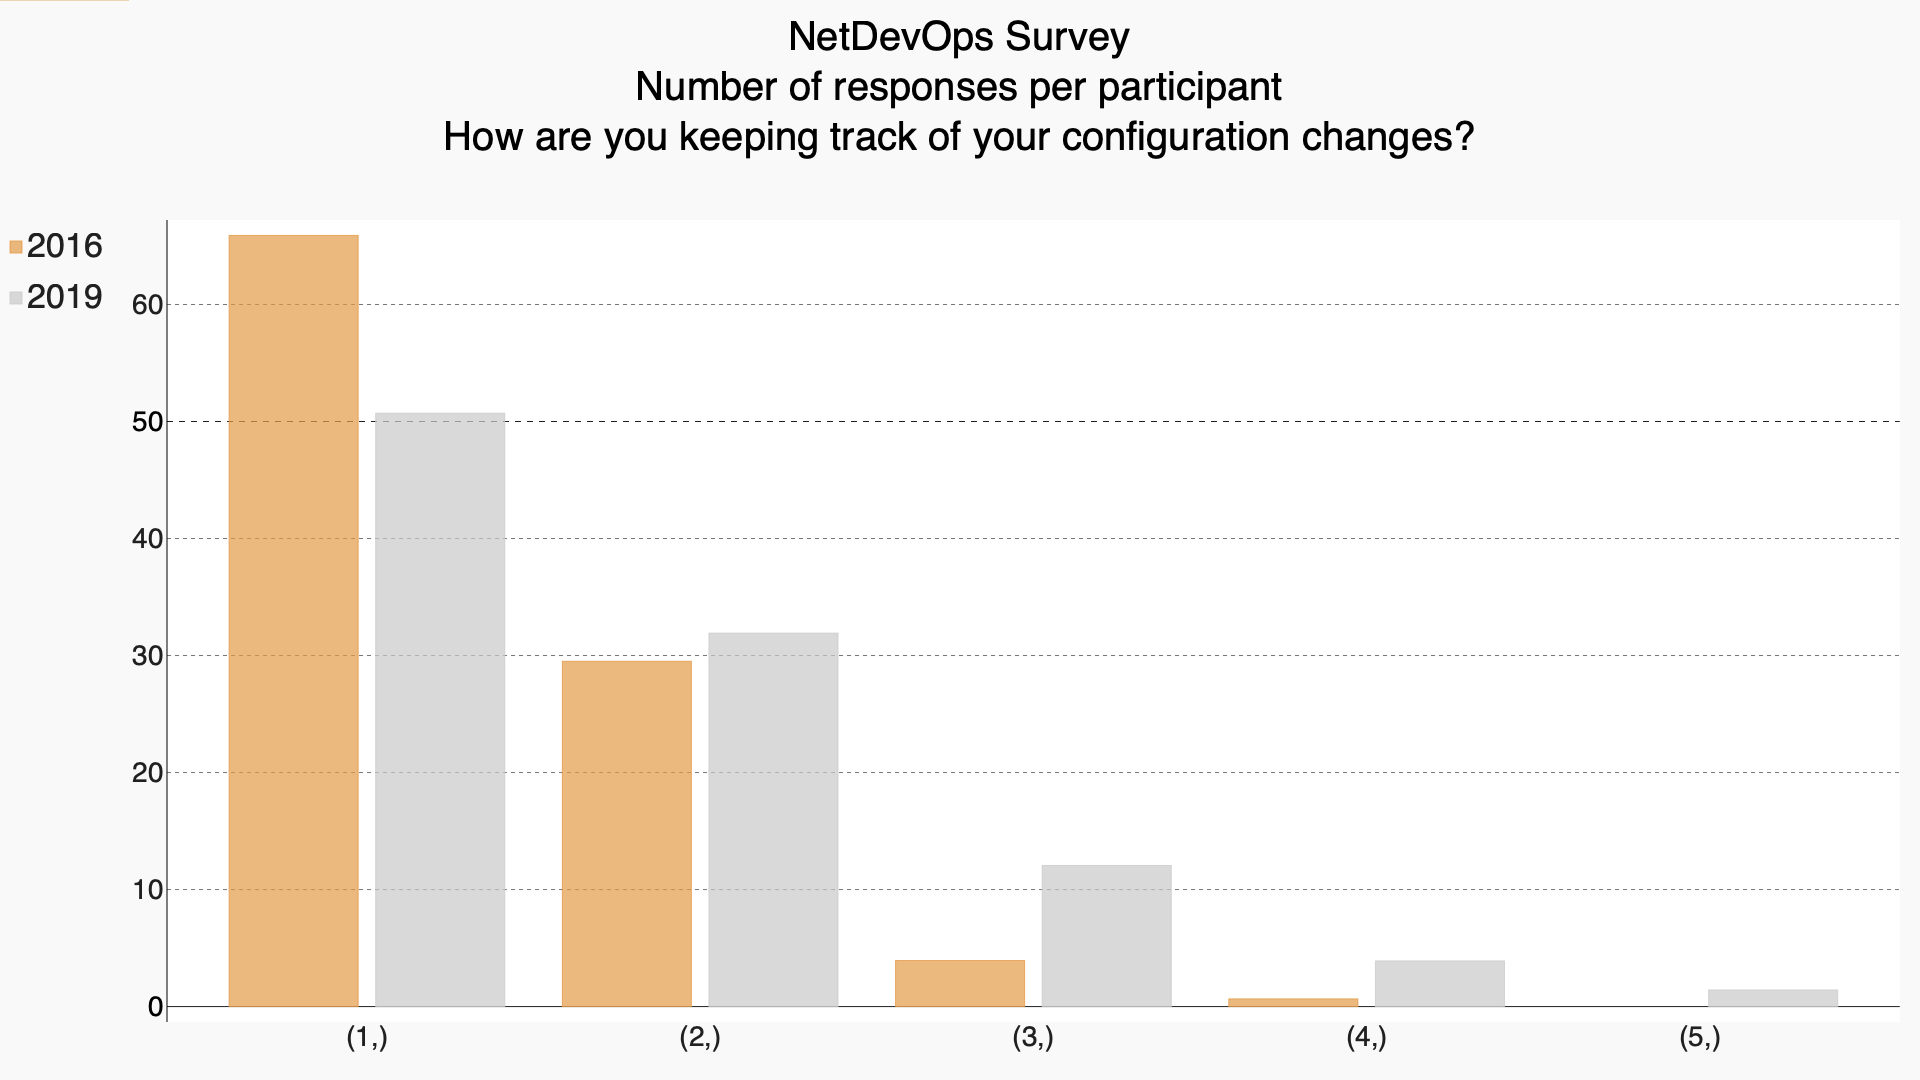
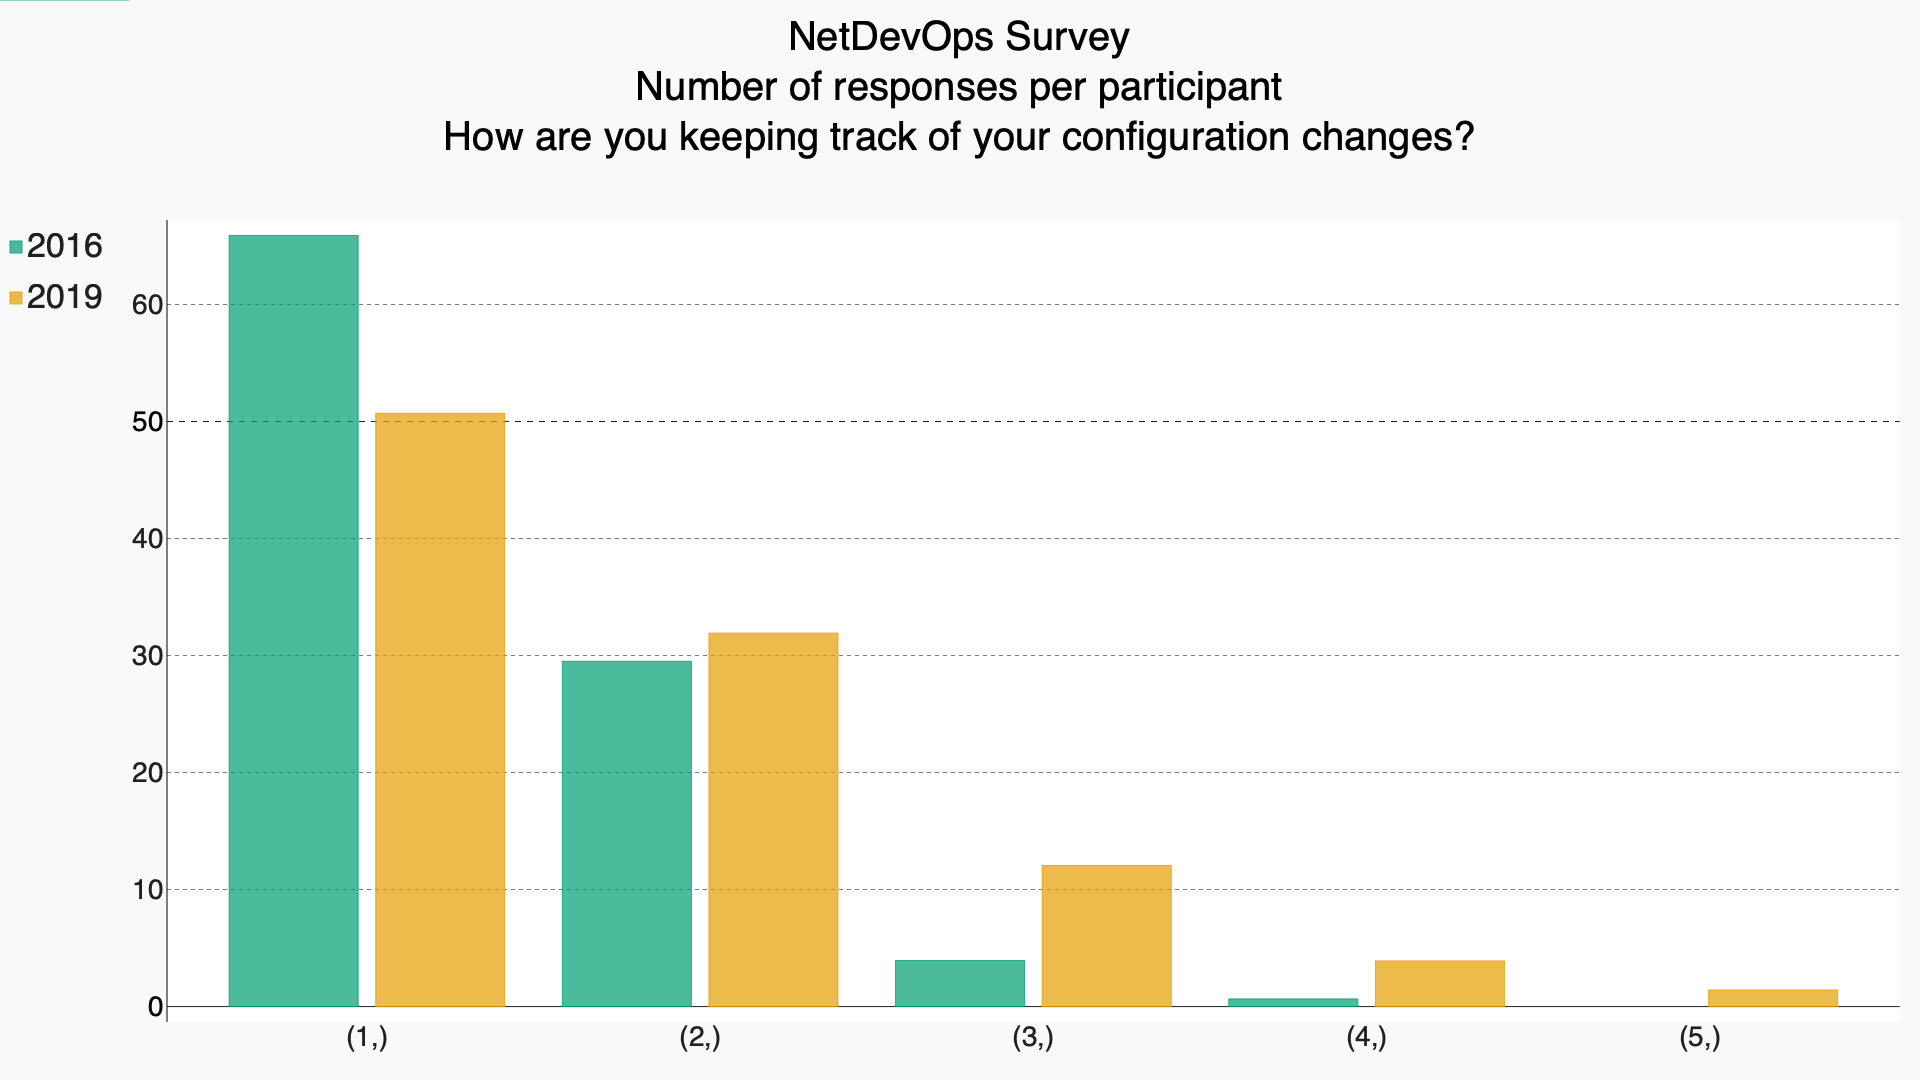
Update color and add individual edition graphs for count distribution

Changed region(s): [[0.0938, 0.2139, 0.4375, 0.9472], [0.4688, 0.7944, 0.7812, 0.9472], [0.875, 0.9167, 0.9688, 0.9472]]

diff --git a/lib/graph.py b/lib/graph.py
@@ -27,6 +27,7 @@ LANGUAGE_COLOR = ("#E39A48", "#77C780", "#067512")
 
 # COLORS = ("#2589BD", "#A39171", "#86BAA1", "#FFCF56", "#38686A", "#00635D", "#6D9DC5", "#A3B4A2")
 COLORS = ( "#009E73", "#E69F00", "#56B4E9", "#F0E442", "#0072B2", "#D55E00", "#CC79A7", "#999999")
+
 style_args = dict(
     label_font_size=28,
     major_label_font_size=28,
@@ -388,18 +389,45 @@ def compare_count_distribution(session, q):
 
     title = q.desc.replace("?", "?\n")
 
-    # nbr_edition = len(list(results.columns))
     chart = pygal.Bar(
-        # legend_at_bottom=True,
         width=1920,
         height=1080,
         title=f"NetDevOps Survey \n Number of responses per participant \n {title}",
-        style=netdevops_style_trends,
+        style=Style(colors=COLORS, **style_args),
     )
 
     chart.x_labels = map(str, list(results.index))
 
     for column in list(results.columns):
         chart.add(column, list(results[column]))
+
+    return chart
+
+def count_distribution(session, sq):
+
+    
+    results = get_sq_nbr_responses_count(
+            session, sq, percentage=True
+        )
+
+    
+    title = sq.text.replace("?", "?\n")
+
+    # nbr_edition = len(list(results.columns))
+    chart = pygal.Bar(
+        width=1920,
+        height=1080,
+        title=f"NetDevOps Survey \n Number of responses per participant \n {title}",
+        style=Style(colors=COLORS, **style_args),
+    )
+
+    chart.show_legend = False
+    chart.x_labels = map(str, list(results.index))
+    chart.add(sq.survey.id, list(results["value"]))
+
+    # chart.x_labels = map(str, list(results.index))
+
+    # for column in list(results.columns):
+    #     chart.add(column, list(results[column]))
 
     return chart

diff --git a/tools/generate_graphs.py b/tools/generate_graphs.py
@@ -131,6 +131,10 @@ def main():
                 filename = f"netdevops_survey_{sq.survey_id}_{sq.question_id}_tool_perc"
                 generate_graphs(chart, filename, args.out, out_format)
 
+                chart = count_distribution(session, sq)
+                filename = f"netdevops_survey_{sq.survey_id}_{sq.question_id}_count_distribution"
+                generate_graphs(chart, filename, args.out, out_format)
+
             elif question.type == "Single choice":
 
                 chart = bar_graph(session, sq, percentage=False, sort=False)
